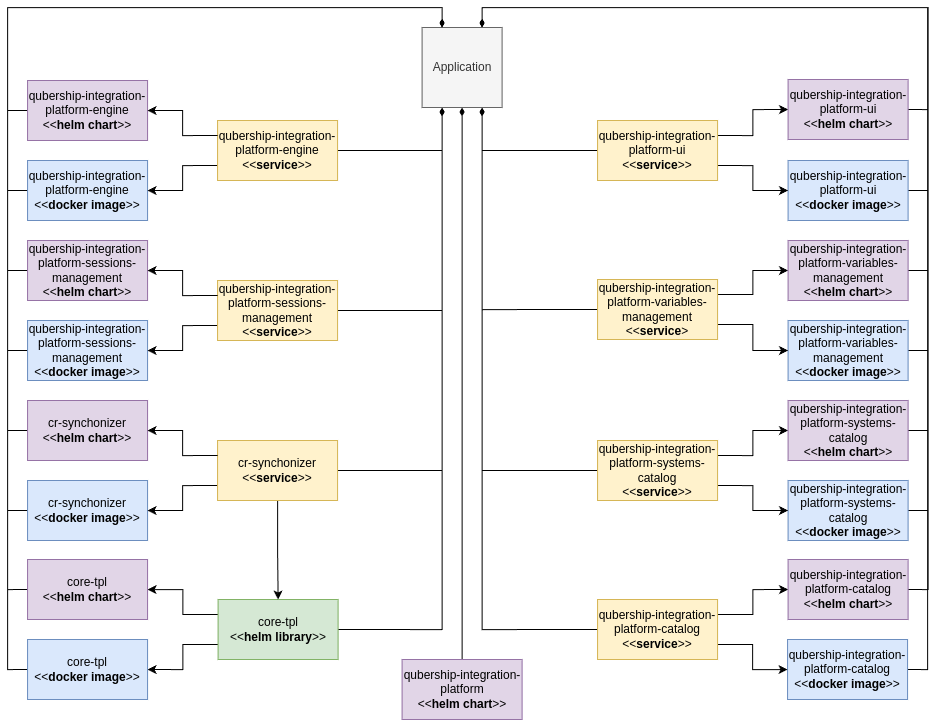
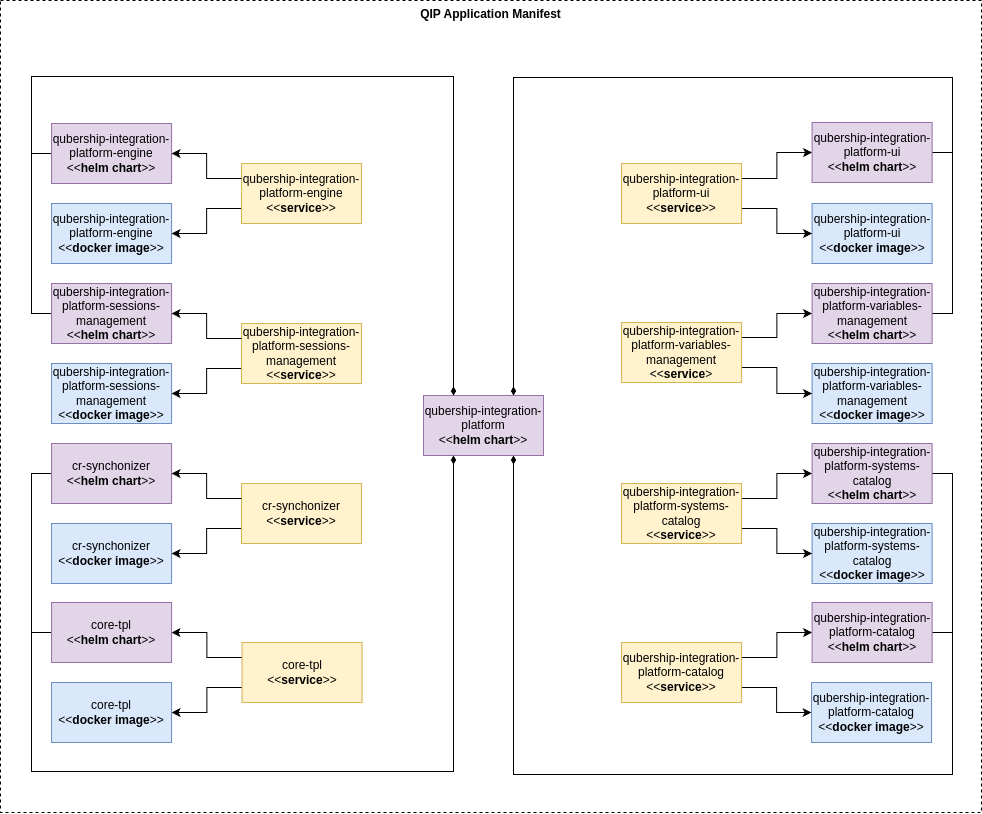
docs: wip

diff --git a/docs/analysis/application-manifest-be-or-no-to-be.md b/docs/analysis/application-manifest-be-or-no-to-be.md
@@ -188,12 +188,12 @@ Cons:
    1. dependsOn - For describing external dependencies (logical links), where a component requires another component to function but does not physically include it.
    2. includes - For describing the physical composition of a component, when a parent artifact includes child components.
 
-![application-manifest-model-without-plugins.drawio.png](/docs/images/application-manifest-model.drawio.png)
+![/docs/images/application-manifest-model.drawio.png](/docs/images/application-manifest-model.drawio.png)
 
 [Application Manifest JSON schema](/schemas/application-manifest.schema.json)
 
 QIP Example:
 
-![application-manifest-model-with-plugins.drawio.png](/docs/images/qip-application-manifest.drawio.png)
+![/docs/images/qip-application-manifest.drawio.png](/docs/images/qip-application-manifest.drawio.png)
 
 [QIP Application Manifest example](/examples/application-manifest-qip.json)